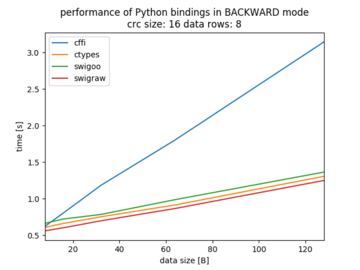
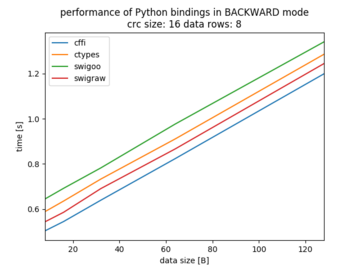
Precalculate cffi data

diff --git a/src/fastcrc/cffi/fastcrc16.py b/src/fastcrc/cffi/fastcrc16.py
@@ -62,8 +62,16 @@ class CffiData16Operator( object ):
     ## dataBytes: bytes list
     ## dataCRC: int
     def __init__(self, dataBytes, dataCRC):
-        self.rawData = dataBytes                    ## no need to convert data
+#         self.rawData = dataBytes                    ## no need to convert data
+
+        # self.rawData = dataBytes                    ## no need to convert data
+
         self.dataLen = len( dataBytes )
+        
+        self.rawData = ffi.new( "uint8_t[]", self.dataLen )         ## released automatically
+        for i in range( self.dataLen ):
+            self.rawData[i] = dataBytes[i]
+
         self.dataCRC = dataCRC
 
 #     def __del__(self):

diff --git a/src/fastcrc/cffi/fastcrc8.py b/src/fastcrc/cffi/fastcrc8.py
@@ -62,8 +62,14 @@ class CffiData8Operator( object ):
     ## dataBytes: bytes list
     ## dataCRC: int
     def __init__(self, dataBytes, dataCRC):
-        self.rawData = dataBytes                    ## no need to convert data
+        # self.rawData = dataBytes                    ## no need to convert data
+
         self.dataLen = len( dataBytes )
+        
+        self.rawData = ffi.new( "uint8_t[]", self.dataLen )         ## released automatically
+        for i in range( self.dataLen ):
+            self.rawData[i] = dataBytes[i]
+
         self.dataCRC = dataCRC
 
 #     def __del__(self):

diff --git a/README.md b/README.md
@@ -72,7 +72,7 @@ For testing, following oneliner might be very handy: `FASTCRC_BINDING=cffi ./src
 Note that, at the memoent, fast CRC is only implemented for *HW* algorithm.
 
 
-#### Comparison of bindings
+#### Performance of bindings
 
 Following images show comparison of performance of implemented bindings.
 
@@ -94,8 +94,7 @@ In this case there will be 256 * 8 calls to *C* library (independent of *data si
 - poly: 0x1335D
 - operation mode: *BACKWARD*
 
-In this case there will be 65536 calls to *C* library. Three implementations perform almost equally, but *cffi* is significantly worse. Performance penalty of *cffi* is because of ability of the binding to 
-automatic conversions of *Python* list structure to *C* raw arrays. For other binding it has to be done manually, thus can be precalculated and cached for repetitive use (as in this case).
+In this case there will be 65536 calls to *C* library. Plot shows that all bindings perform in similar way and there is constant difference between them. It can be seen that *cffi* is fastest among presented implementations.
 
  
 ### Development
